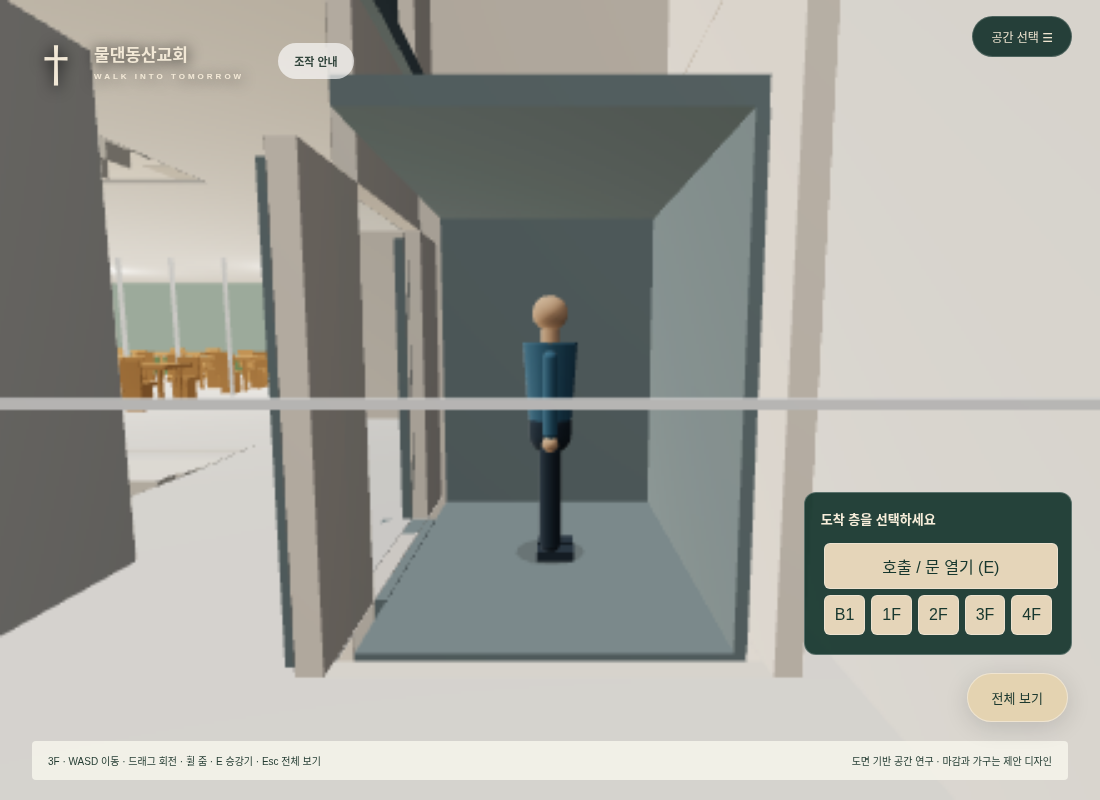
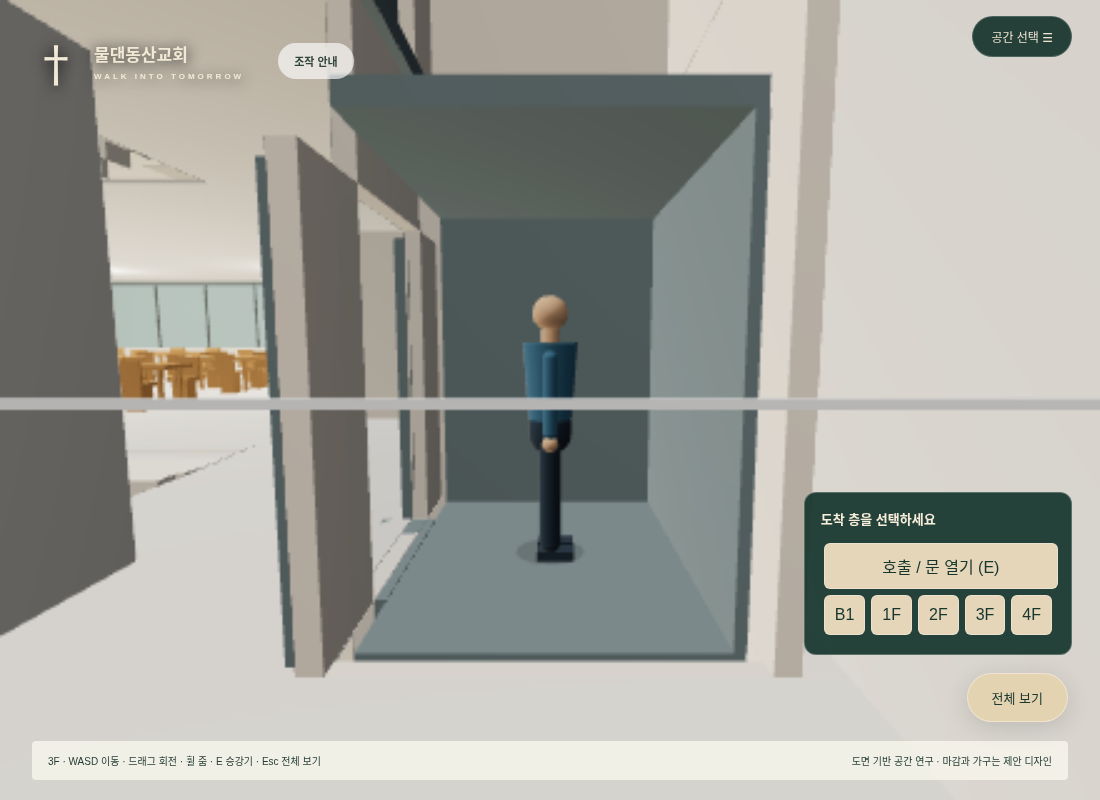
Fix rear facade seating visibility and room furniture

Changed region(s): [[0.0927, 0.3438, 0.2473, 0.5]]

diff --git a/src/building-world.js b/src/building-world.js
@@ -14,7 +14,7 @@ export class BuildingWorld {
     this.repairs=[];this.ray=new T.Raycaster();this.ray.layers.enableAll();this.meshes=[];this.walkables=[];this.solids=[];this.doors=[];
     this.original=new Map();this.root.traverse(o=>{if(o.isMesh)this.original.set(sourceName(o),o)});
     this.trim=new T.MeshStandardMaterial({color:0xd6d0c2,roughness:.7});
-    this.fixStructure();this.fitSanctuary();this.expandSanctuary();this.buildRearRooms();this.openDiningHall();this.buildLift();this.index();this.batchVisuals();
+    this.fixStructure();this.fitSanctuary();this.expandSanctuary();this.buildRearRooms();this.openDiningHall();this.furnishEducationRooms();this.buildLift();this.index();this.batchVisuals();
   }
   box(name,x,y,z,w,h,d,material=this.trim,parent=this.root){
     const o=new T.Mesh(new T.BoxGeometry(w,h,d),material);o.name=name;o.position.set(x,y,z);o.receiveShadow=true;parent.add(o);return o;
@@ -147,6 +147,12 @@ export class BuildingWorld {
       const h=(11-i)*.12;
       this.box('B1_Seating_Tier_AisleStep_'+i,5.61+(i+.5)*.22,floor+h/2,1.6,.225,h,1.3,tierMaterial);
     }
+    // Finish the exposed seating edge beside the sunken stair core. Segmenting
+    // the face follows the radial tier heights and removes the floating-slab look.
+    for(let i=0;i<16;i++){
+      const z=2.625+i*.24,r=Math.hypot(4.3-center.x,z-center.y),level=Math.max(1,Math.min(11,Math.floor((r-5.2)/1.3))),h=level*.12+.02;
+      this.box('B1_Seating_Retaining_Edge_'+i,4.24,floor+h/2,z,.12,h,.245,tierMaterial);
+    }
     for(const o of pewMeshes)o.position.y+=tiers.get(sourceName(o).match(/^(B1_Pew_\d+)_/)[1])*.12;
     // Four separate cushions per bench echo the reference seating without losing the existing pew frames.
     this.root.updateMatrixWorld(true);const seatParts=[];this.root.traverse(o=>{if(o.isMesh&&/^B1_Pew_\d+_(Seat|Back)$/.test(sourceName(o)))seatParts.push(o)});
@@ -215,8 +221,34 @@ export class BuildingWorld {
     // leaving three clear table rows in one continuous hall.
     this.original.get('Upper_Setback_Glass')?.removeFromParent();
     for(const [name,o] of this.original)if(/^03_Dining_3_/.test(name))o.removeFromParent();
-    this.diningHall={floor:9.6,tableRows:3,barrierRemoved:'Upper_Setback_Glass',bounds:{x1:-4.2,x2:4.2,z1:-8.3,z2:.1}};
-    this.repairs.push('3F dining hall unified: central setback glass removed and tables arranged as three rows in one room');
+    for(let i=7;i<=17;i++)this.original.get('FRAME_Setback'+i)?.removeFromParent();
+    // Close the previously open rear elevation without cutting through the hall:
+    // an opaque sill and upper glazing sit on the actual rear boundary at z=-9m.
+    const wall=new T.MeshStandardMaterial({color:0xd6d0c2,roughness:.9});
+    const glass=new T.MeshStandardMaterial({color:0xa8c7cc,transparent:true,opacity:.38,depthWrite:false,roughness:.18,side:T.DoubleSide});
+    const frame=new T.MeshStandardMaterial({color:0x6f7775,roughness:.75});
+    this.box('03_Dining_Rear_Sill',1.45,10.05,-8.98,12.78,.9,.14,wall);
+    this.box('03_Dining_Rear_Glass',1.45,11.55,-8.98,12.78,2.1,.055,glass);
+    this.box('03_Dining_Rear_Header',1.45,12.55,-8.98,12.78,.1,.16,frame);
+    for(let x=-4.94;x<=7.85;x+=1.6)this.box('03_Dining_Rear_Mullion',x,11.55,-8.91,.055,2.1,.07,frame);
+    this.diningHall={floor:9.6,tableRows:3,barrierRemoved:'Upper_Setback_Glass',framesRemoved:11,rearEnclosed:true,bounds:{x1:-4.2,x2:4.2,z1:-8.3,z2:.1}};
+    this.repairs.push('3F dining hall unified: internal glass and 11 orphaned frames removed; rear elevation enclosed with sill and glazing; three table rows retained');
+  }
+  furnishEducationRooms(){
+    const floor=3.2,wood=new T.MeshStandardMaterial({color:0xb58c5a,roughness:.88}),fabric=new T.MeshStandardMaterial({color:0x9caa9e,roughness:1});
+    const rooms=[{id:'Prayer',label:'기도실',x:7.25,z:-.83},{id:'SmallGroupA',label:'소그룹실 1',x:7.25,z:-4.08},{id:'SmallGroupB',label:'소그룹실 2',x:7.25,z:-7.33}];
+    for(const room of rooms){
+      const top=new T.Mesh(new T.CylinderGeometry(.7,.7,.08,32),wood);top.name='02_'+room.id+'_RoundTable';top.position.set(room.x,floor+.75,room.z);top.receiveShadow=true;this.root.add(top);
+      const pedestal=new T.Mesh(new T.CylinderGeometry(.11,.18,.72,20),wood);pedestal.name='02_'+room.id+'_TablePedestal';pedestal.position.set(room.x,floor+.36,room.z);this.root.add(pedestal);
+      for(let i=0;i<4;i++){
+        const a=i*Math.PI/2,x=room.x+Math.cos(a)*1.05,z=room.z+Math.sin(a)*1.05;
+        const seat=new T.Mesh(new T.CylinderGeometry(.25,.25,.08,20),fabric);seat.name='02_'+room.id+'_ChairSeat_'+i;seat.position.set(x,floor+.46,z);this.root.add(seat);
+        const leg=new T.Mesh(new T.CylinderGeometry(.055,.075,.44,12),wood);leg.name='02_'+room.id+'_ChairLeg_'+i;leg.position.set(x,floor+.22,z);this.root.add(leg);
+        const back=this.box('02_'+room.id+'_ChairBack_'+i,x+Math.cos(a)*.22,floor+.78,z+Math.sin(a)*.22,.48,.56,.08,fabric);back.rotation.y=Math.PI/2-a;
+      }
+    }
+    this.educationRooms={rooms:rooms.map(r=>({id:r.id,label:r.label,center:[r.x,floor,r.z]})),roundTables:3,chairs:12};
+    this.repairs.push('2F prayer and small-group rooms furnished with three round tables and twelve chairs');
   }
   buildLift(){
     const steel=new T.MeshStandardMaterial({color:0x7b898c,metalness:.5,roughness:.35});

diff --git a/src/third-person.js b/src/third-person.js
@@ -109,14 +109,11 @@ export class ThirdPerson {
       const direction = sample.sub(this.camera.position);
       this.ray.set(this.camera.position, direction.clone().normalize());
       this.ray.far = direction.length();
-      for (const hit of this.ray.intersectObjects(this.targets, false)) hit.object.visible && occluders.add(hit.object);
+      for (const hit of this.ray.intersectObjects(this.targets, false)) if(hit.object.visible&&!/^B1_Pew_/.test(hit.object.userData.name||hit.object.name))occluders.add(hit.object);
       // Reverse rays also detect the exit face when the camera is inside a wall.
       this.ray.set(this.camera.position.clone().add(direction), direction.clone().normalize().negate());
-      for (const hit of this.ray.intersectObjects(this.targets, false)) hit.object.visible && occluders.add(hit.object);
+      for (const hit of this.ray.intersectObjects(this.targets, false)) if(hit.object.visible&&!/^B1_Pew_/.test(hit.object.userData.name||hit.object.name))occluders.add(hit.object);
     }
-    // Keep each pew coherent: do not leave its legs floating when its seat is hidden.
-    const pews=new Set([...occluders].map(o=>(o.userData.name||o.name).match(/^(B1_Pew_\d+)_/)?.[1]).filter(Boolean));
-    if(pews.size)for(const o of this.targets){const key=(o.userData.name||o.name).match(/^(B1_Pew_\d+)_/)?.[1];if(pews.has(key))occluders.add(o)}
     for (const mesh of occluders) {
       this.faded.set(mesh, mesh.material);
       if (setSourceVisibility(mesh, 0)) continue;

diff --git a/src/app.js b/src/app.js
@@ -90,6 +90,6 @@ const testing=new URLSearchParams(location.search).has('test');
 const clock=new T.Clock();let lastRender=0;function animate(){requestAnimationFrame(animate);const now=performance.now();if(softwareRenderer&&now-lastRender<1000/12)return;lastRender=now;const dt=Math.min(clock.getDelta(),.1);if(!testing){tick(dt);if(!walking)controls.update();renderer.render(scene,camera)}else if(!window.__church)renderer.render(scene,camera);if(window.__church)window.__church.renderedSpace=space;}
 setSpace('outside');animate();document.querySelector('#loading').remove();addEventListener('resize',()=>{camera.aspect=innerWidth/innerHeight;camera.updateProjectionMatrix();renderer.setSize(innerWidth,innerHeight)});
 document.querySelector('#spaces-toggle').onclick=()=>{const hidden=document.body.classList.toggle('compact');document.querySelector('#spaces-toggle').setAttribute('aria-expanded',String(!hidden))};
-window.__church={get space(){return space},get walking(){return walking},camera,seatCount,groups,obstacles,floorHeight,thirdPerson,allowed,world,FLOORS,renderer};
+window.__church={get space(){return space},get walking(){return walking},camera,controls,scene,seatCount,groups,obstacles,floorHeight,thirdPerson,allowed,world,FLOORS,renderer};
 
 if(testing)window.__church.advance=(seconds,render=true)=>{for(let t=0;t<seconds;t+=1/60)tick(Math.min(1/60,seconds-t),false);if(render){thirdPerson.follow.snap();tick(0);renderer.render(scene,camera)}};
